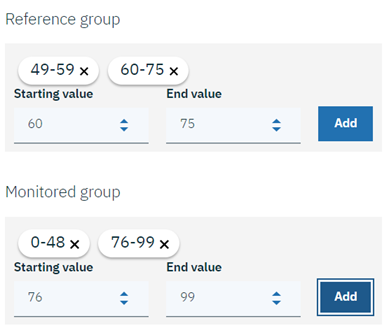
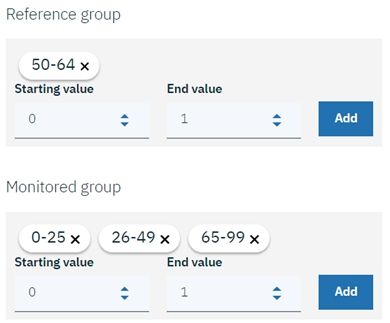
New data settings

diff --git a/getting-started.md b/getting-started.md
@@ -249,13 +249,13 @@ Now that the machine learning model has been deployed, you can configure {{site.
 
 - You may now choose which features to monitor for Fairness. In this example, we'll monitor the **AGE** and **SEX** features. Click on the **AGE** and **SEX** tiles, and click **Next**.
 
-- {{site.data.keyword.aios_short}} works to detect bias against a monitored group in comparison to a reference group. For the current **AGE** example, add the values "49-59" and "60-75" to the **Reference group**, and the values "0-48" and "76-99" to the **Monitored group**, and click **Next**:
+- {{site.data.keyword.aios_short}} works to detect bias against a monitored group in comparison to a reference group. For the current **AGE** example, add the values "50-64" to the **Reference group**, and the values "0-25", "26-49", and "65-99" to the **Monitored group**, and click **Next**:
 
   ![Age Groups](images/age_groups1.png)
 
-  The model will be flagged as biased if the drug prediction ratios for the monitored group age ranges differ from the ratios for the reference group age ranges. For example, if the model finds that drug A was predicted 30% of the time for patients aged 49-59, but was predicted only 5% of the time for patients aged 76-99, it is biased against the monitored group.
+  The model will be flagged as biased if the drug prediction ratios for the nonitored group age ranges differ from the ratios for the reference group age ranges. For example, if the model finds that drug A was predicted 30% of the time for patients aged 50-64, but was predicted only 5% of the time for patients aged 65-99, it is biased against the monitored group.
 
-- You may now assign a fairness threshold for **AGE**. You will see an alert on your operations dashboard if the Fairness rating falls below this threshold. Click **Next** to leave it set at the default of 80%.
+- You may now assign a fairness threshold for **AGE**. You will see an alert on your operations dashboard if the Fairness rating falls below this threshold. Set the threshold at 90%, and click **Next**.
 
 - For the **SEX** feature, add the value "M" (male) to the **Reference group**, and the value "F" (female) to the **Monitored group**, and click **Next**:
 
@@ -263,15 +263,15 @@ Now that the machine learning model has been deployed, you can configure {{site.
 
   As with **AGE**, the model will be flagged as biased for **SEX** if the drug prediction ratios for the monitored group differ from the ratios for the reference group. So if the model predicts drug X for male patients 60% of the time, and for female patients 20% of the time, it is biased.
 
-- Click **Next** to leave the threshold for **SEX** at the default of 80%.
+- Set the threshold for **SEX** at 90%, and click **Next**.
 
-- You will now select expected and unexpected prediction values from the payload logging (PostgreSQL) database. {{site.data.keyword.aios_short}} will automatically detect which column in the payload logging data contains the prediction values; those values are 0-4 (each number corresponding to one of five drugs the model predicts). Add these values to the form and click **Next**:
+- You will now select expected and unexpected prediction values from the payload logging (PostgreSQL) database. {{site.data.keyword.aios_short}} will automatically detect which column in the payload logging data contains the prediction values;  those values are "drugA", "drugB", "drugC", "drugX", and "drugY". Add "drugC" as Expected, and the others as Unexpected, to the form and click **Next**:
 
   ![Positive and negative values](images/pos_and_neg1.png)
 
-- Use the slider to adjust the minimum sample size to 100, then click  **Next**. Review your choices, and then click **Save**.
+- Use the slider to adjust the minimum sample size to 50, then click  **Next**. Review your choices, and then click **Save**.
 
-  **Note**: For purposes of this tutorial, the minimum sample size has been set to 100. Normally, a larger sample size is recommended to ensure the sample size is not too small to skew results.
+  **Note**: For purposes of this tutorial, the minimum sample size has been set to 50. Normally, a larger sample size is recommended to ensure the sample size is not too small to skew results.
 
 ### Configure accuracy monitoring
 
@@ -283,7 +283,7 @@ Now that the machine learning model has been deployed, you can configure {{site.
 
   ![Multiclass](images/multiclass.png)
 
-- Next, set the accuracy threshold. Click **Next** to leave it at the default 80%. Use the slider to adjust the minimum sample size to 40, then click  **Next**.
+- Next, set the accuracy threshold to 90% and click **Next**. Use the slider to adjust the minimum sample size to 40, then click  **Next**.
 
   **Note**: For purposes of this tutorial, the minimum sample size has been set to 40. Normally, a larger sample size is recommended to ensure the sample size is not too small to skew results.
 
@@ -306,7 +306,7 @@ Now that the machine learning model has been deployed, you can configure {{site.
 
 --->
 
-- Next, select the [model type](monitor-accuracy.html#understand-accuracy). For the sample model, there are multiple possible outcomes (five drug predictions), so select **Multiclass Classification** from the dropdown and click **Next**:
+- Next, select the [model type](/docs/services/ai-openscale/monitor-accuracy.html#understand-accuracy). For the sample model, there are multiple possible outcomes (five drug predictions), so select **Multiclass Classification** from the dropdown and click **Next**:
 
   ![Multiclass](images/multiclass.png)
 
@@ -388,6 +388,8 @@ Now that the machine learning model has been deployed, you can configure {{site.
 
   This will retrain and provide feedback data to your model.
 
+- Finally, [re-run the sample data set](/docs/services/ai-openscale/getting-started.html#provide-a-set-of-sample-data-to-your-model) against the updated model.
+
 ## Viewing results
 
 ### View insights for your deployment
@@ -396,7 +398,7 @@ Using the [AI OpenScale dashboard ![External link icon](../../icons/launch-glyph
 
   ![Insights](images/insight-dash-tab.png)
 
-The Insights page provides an overview of metrics for your deployed models. You can easily see alerts for Fairness or Accuracy metrics that have fallen below the 80% threshold. In this example no data is below the threshold.
+The Insights page provides an overview of metrics for your deployed models. You can easily see alerts for Fairness or Accuracy metrics that have fallen below the 90% threshold. The data and settings used in this tutorial will have created Accuracy and Fairness alerts, similar to the ones shown here.
 
   ![Insight overview](images/insight-overview.png)
 
